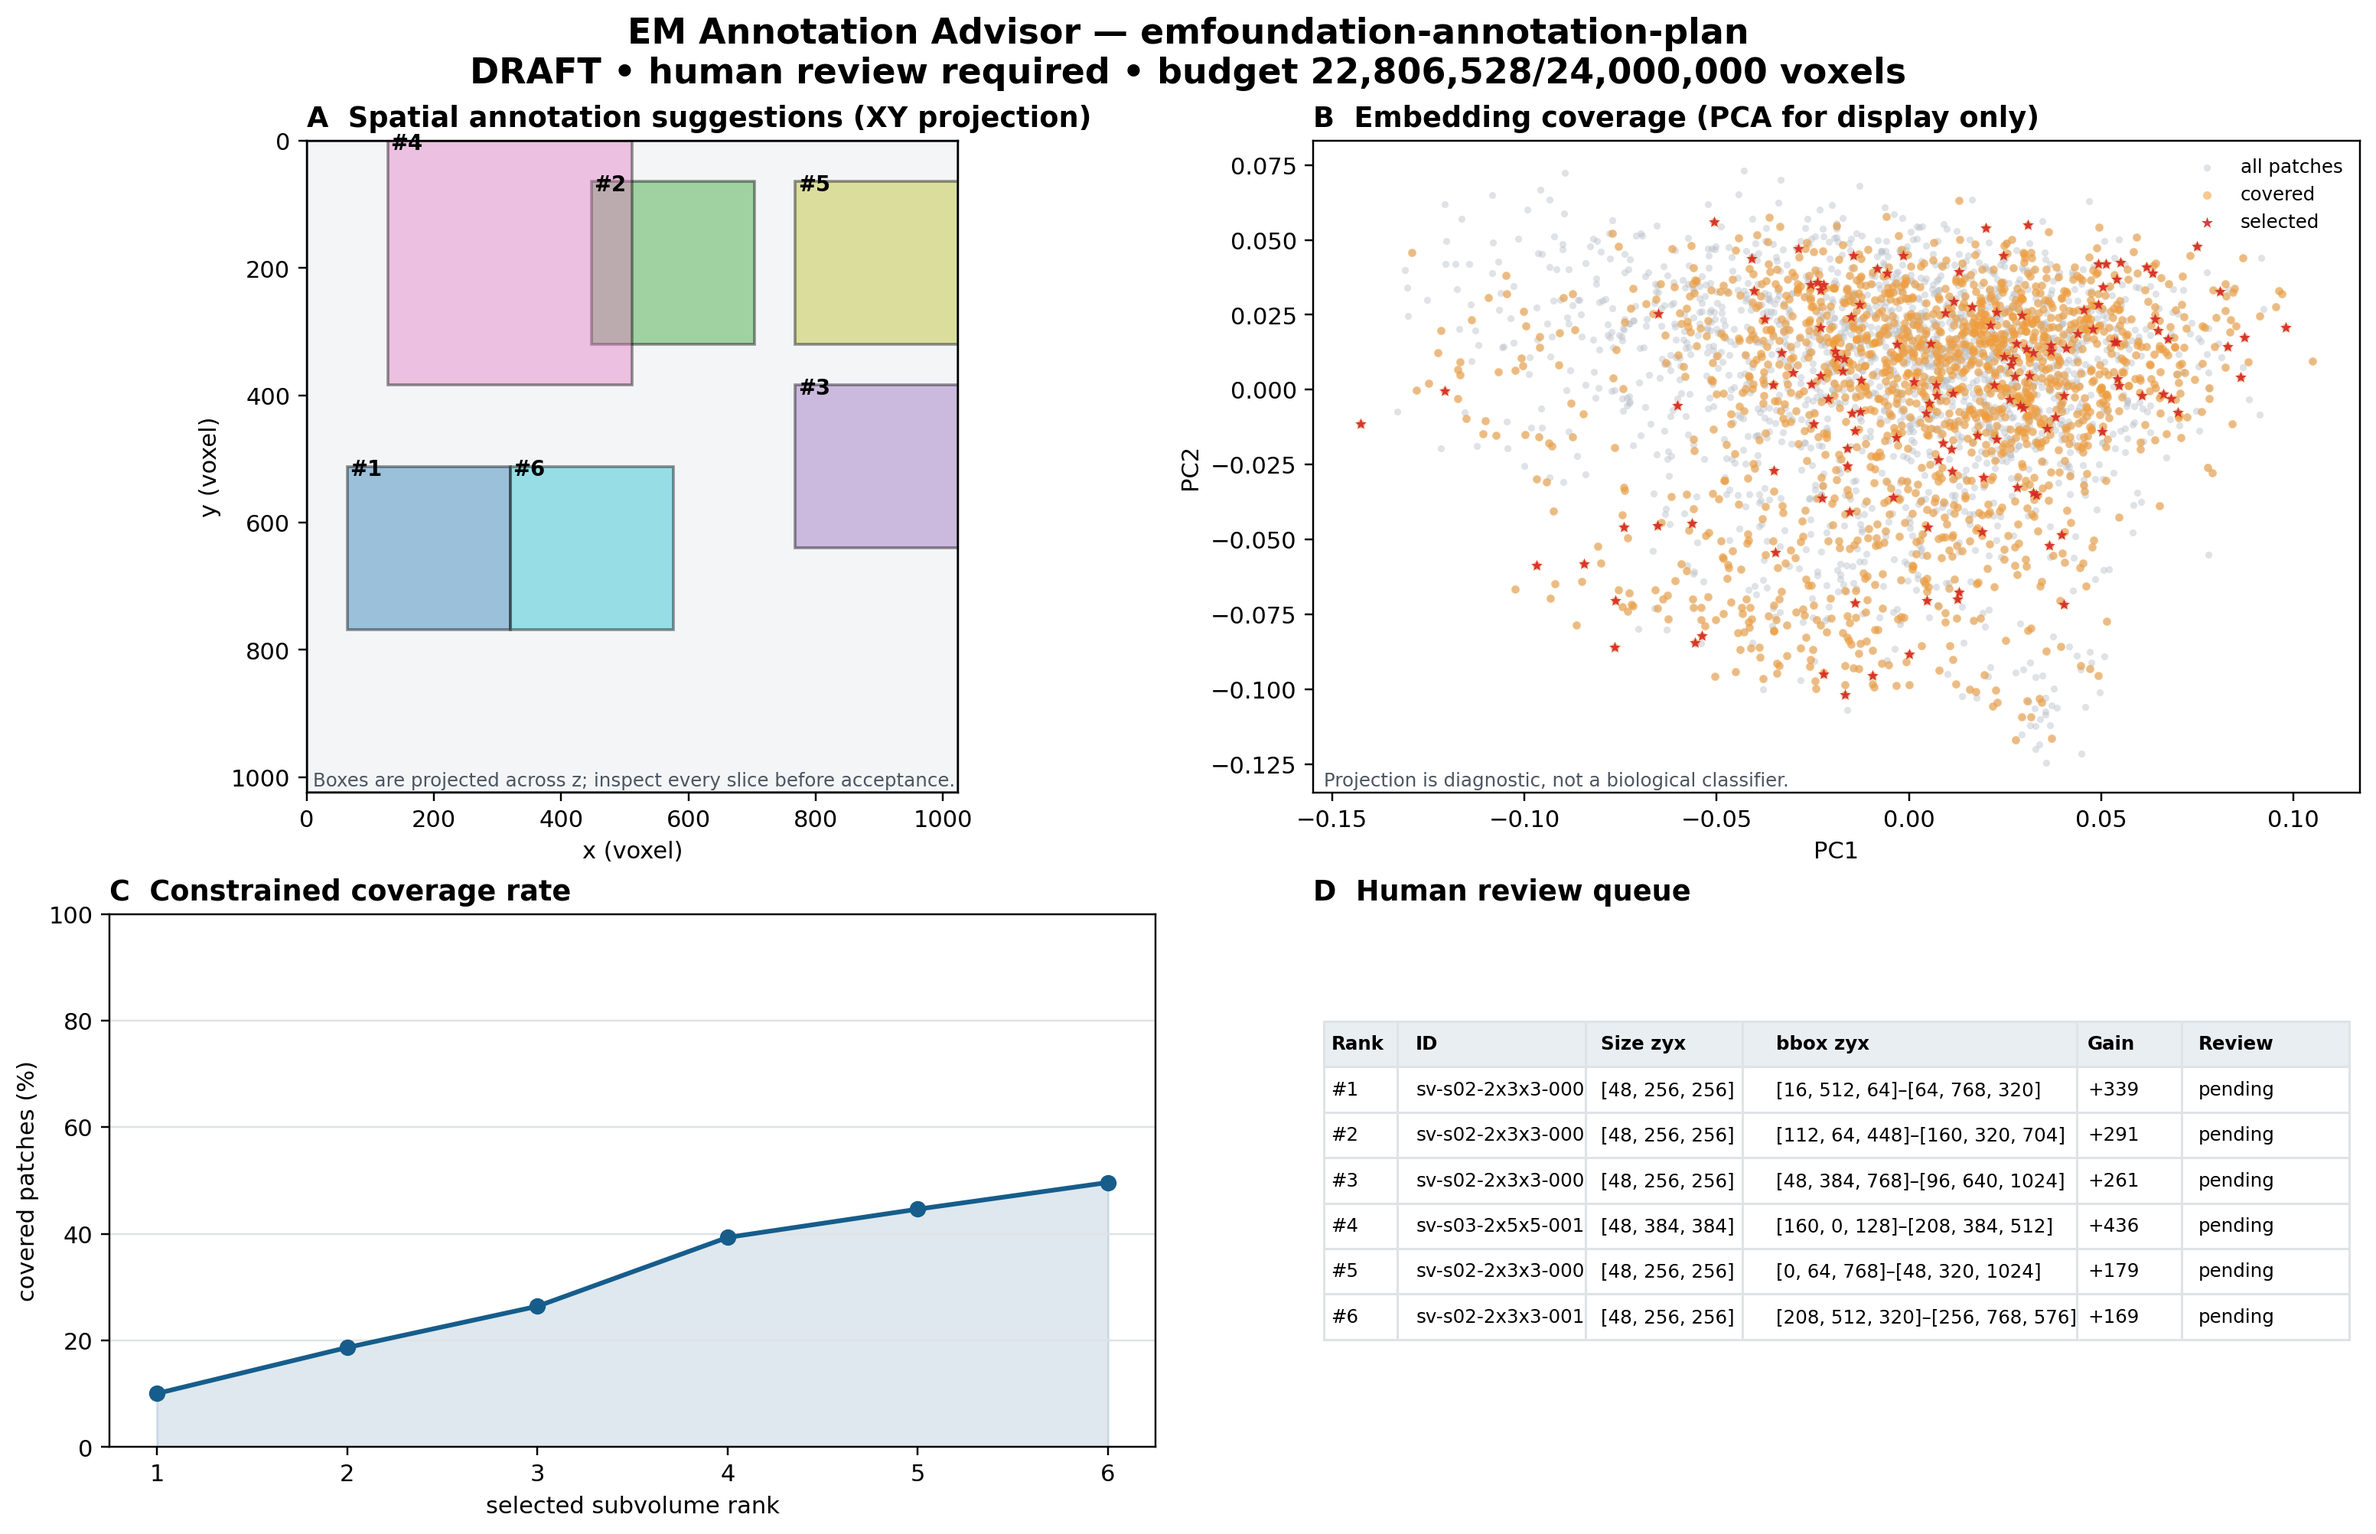
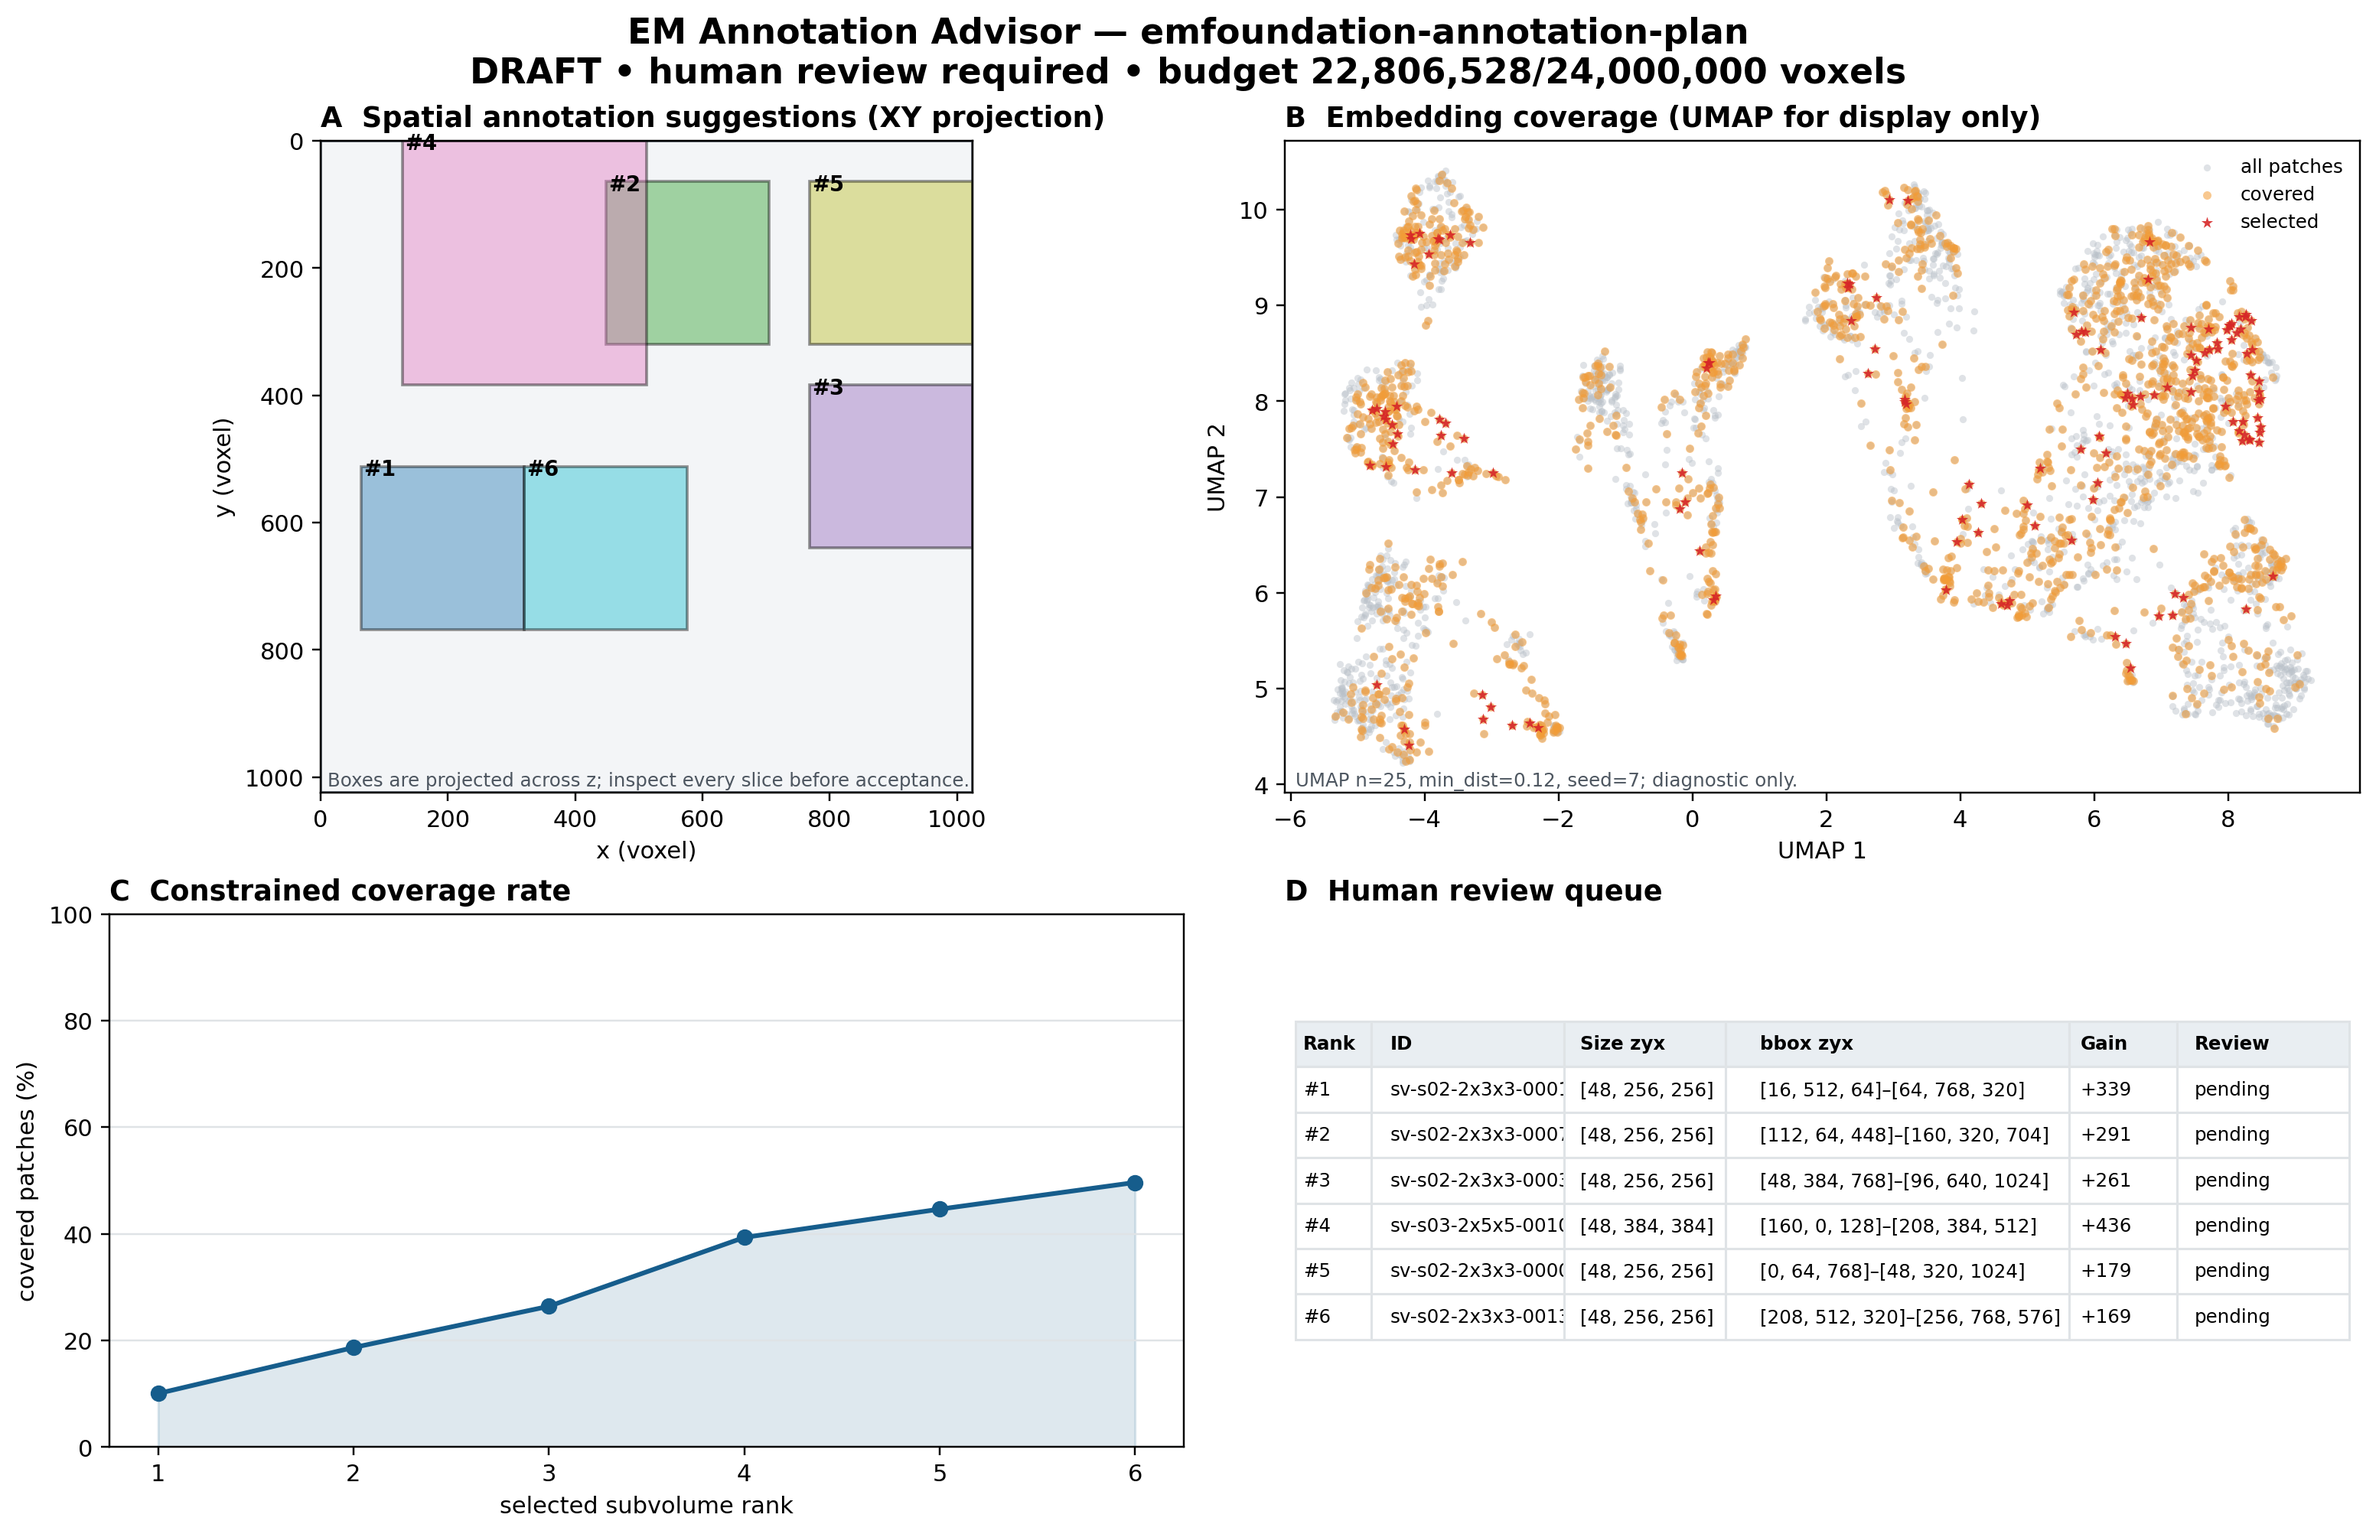
Use real EMFoundation embeddings and variable-size annotation selection

diff --git a/skills/suggest-em-annotations/scripts/visualize_annotation_advice.py b/skills/suggest-em-annotations/scripts/visualize_annotation_advice.py
@@ -1,5 +1,5 @@
 #!/usr/bin/env python3
-"""Create an SL-SSNS-style spatial and embedding-domain review figure."""
+"""Create a spatial and UMAP embedding-domain annotation review figure."""
 
 from __future__ import annotations
 
@@ -10,18 +10,45 @@ from pathlib import Path
 import numpy as np
 
 
-def pca2(x: np.ndarray) -> np.ndarray:
-    centered = x.astype(np.float64, copy=False) - np.mean(x, axis=0, keepdims=True)
-    if len(centered) < 2:
-        return np.zeros((len(centered), 2), dtype=np.float64)
-    _, _, vt = np.linalg.svd(centered, full_matrices=False)
-    projected = centered @ vt[: min(2, vt.shape[0])].T
-    if projected.shape[1] == 1:
-        projected = np.column_stack([projected[:, 0], np.zeros(len(projected))])
-    return projected
+def umap2(
+    x: np.ndarray,
+    n_neighbors: int = 25,
+    min_dist: float = 0.12,
+    metric: str = "euclidean",
+    seed: int = 7,
+) -> np.ndarray:
+    if len(x) < 3:
+        raise ValueError("UMAP visualization requires at least three embedding rows")
+    if n_neighbors < 2:
+        raise ValueError("UMAP n_neighbors must be at least 2")
+    if min_dist < 0:
+        raise ValueError("UMAP min_dist must be non-negative")
+    try:
+        import umap
+    except ImportError as exc:
+        raise RuntimeError("UMAP visualization requires the umap-learn package; no PCA fallback is used") from exc
+    effective_neighbors = min(max(2, n_neighbors), len(x) - 1)
+    reducer = umap.UMAP(
+        n_components=2,
+        n_neighbors=effective_neighbors,
+        min_dist=min_dist,
+        metric=metric,
+        random_state=seed,
+    )
+    return reducer.fit_transform(x.astype(np.float32, copy=False))
 
 
-def render(manifest_path: Path, selection_path: Path, embeddings_path: Path, out_path: Path) -> None:
+def render(
+    manifest_path: Path,
+    selection_path: Path,
+    embeddings_path: Path,
+    out_path: Path,
+    projection_out: Path | None = None,
+    n_neighbors: int = 25,
+    min_dist: float = 0.12,
+    metric: str = "euclidean",
+    seed: int = 7,
+) -> None:
     import matplotlib
     matplotlib.use("Agg")
     import matplotlib.pyplot as plt
@@ -33,7 +60,18 @@ def render(manifest_path: Path, selection_path: Path, embeddings_path: Path, out
     if embeddings.ndim != 2 or embeddings.shape[0] != manifest["patch_count"]:
         raise ValueError("embedding shape does not match manifest")
 
-    points = pca2(embeddings)
+    points = umap2(embeddings, n_neighbors=n_neighbors, min_dist=min_dist, metric=metric, seed=seed)
+    if projection_out is not None:
+        projection_out.parent.mkdir(parents=True, exist_ok=True)
+        np.savez_compressed(
+            projection_out,
+            umap=points,
+            n_neighbors=np.asarray(n_neighbors),
+            min_dist=np.asarray(min_dist),
+            metric=np.asarray(metric),
+            seed=np.asarray(seed),
+            embedding_rows=np.asarray(embeddings.shape[0]),
+        )
     covered = np.asarray(selection["covered_patch_ids"], dtype=int)
     selected = np.asarray(selection["selected_patch_ids"], dtype=int)
     curve = selection["coverage_curve"]
@@ -62,16 +100,16 @@ def render(manifest_path: Path, selection_path: Path, embeddings_path: Path, out
     ax_space.set_ylabel("y (voxel)")
     ax_space.text(0.01, 0.01, "Boxes are projected across z; inspect every slice before acceptance.", transform=ax_space.transAxes, fontsize=8, color="#4d5660")
 
-    ax_embed.set_title("B  Embedding coverage (PCA for display only)", loc="left", fontweight="bold")
+    ax_embed.set_title("B  Embedding coverage (UMAP for display only)", loc="left", fontweight="bold")
     ax_embed.scatter(points[:, 0], points[:, 1], s=9, c="#b8c0c8", alpha=0.45, label="all patches", linewidths=0)
     if covered.size:
         ax_embed.scatter(points[covered, 0], points[covered, 1], s=13, c="#f39c36", alpha=0.55, label="covered", linewidths=0)
     if selected.size:
         ax_embed.scatter(points[selected, 0], points[selected, 1], s=27, c="#d62728", marker="*", alpha=0.9, label="selected", linewidths=0)
-    ax_embed.set_xlabel("PC1")
-    ax_embed.set_ylabel("PC2")
+    ax_embed.set_xlabel("UMAP 1")
+    ax_embed.set_ylabel("UMAP 2")
     ax_embed.legend(frameon=False, fontsize=8)
-    ax_embed.text(0.01, 0.01, "Projection is diagnostic, not a biological classifier.", transform=ax_embed.transAxes, fontsize=8, color="#4d5660")
+    ax_embed.text(0.01, 0.01, f"UMAP n={n_neighbors}, min_dist={min_dist:g}, seed={seed}; diagnostic only.", transform=ax_embed.transAxes, fontsize=8, color="#4d5660")
 
     ax_curve.set_title("C  Constrained coverage rate", loc="left", fontweight="bold")
     ranks = [r["rank"] for r in curve]
@@ -129,8 +167,23 @@ def main() -> int:
     parser.add_argument("--selection", type=Path, required=True)
     parser.add_argument("--embeddings", type=Path, required=True)
     parser.add_argument("--out", type=Path, required=True)
+    parser.add_argument("--projection-out", type=Path, help="optional compressed NPZ containing UMAP coordinates and parameters")
+    parser.add_argument("--umap-neighbors", type=int, default=25)
+    parser.add_argument("--umap-min-dist", type=float, default=0.12)
+    parser.add_argument("--umap-metric", default="euclidean")
+    parser.add_argument("--umap-seed", type=int, default=7)
     args = parser.parse_args()
-    render(args.manifest, args.selection, args.embeddings, args.out)
+    render(
+        args.manifest,
+        args.selection,
+        args.embeddings,
+        args.out,
+        projection_out=args.projection_out,
+        n_neighbors=args.umap_neighbors,
+        min_dist=args.umap_min_dist,
+        metric=args.umap_metric,
+        seed=args.umap_seed,
+    )
     print(f"wrote {args.out}")
     return 0
 

diff --git a/skills/suggest-em-annotations/tests/test_visualization.py b/skills/suggest-em-annotations/tests/test_visualization.py
@@ -18,15 +18,16 @@ class VisualizationTests(unittest.TestCase):
     def test_render(self):
         try:
             import matplotlib  # noqa: F401
+            import umap  # noqa: F401
         except ImportError:
-            self.skipTest("matplotlib unavailable")
+            self.skipTest("matplotlib or umap-learn unavailable")
         manifest = {
-            "patch_count": 4,
+            "patch_count": 16,
             "source": {"shape_zyx": [2, 8, 8]},
         }
         selection = {
             "project_id": "synthetic",
-            "covered_patch_ids": [0, 1, 2],
+            "covered_patch_ids": list(range(12)),
             "selected_patch_ids": [0, 1],
             "coverage_curve": [{"rank": 1, "coverage_rate": 0.75}],
             "selected_subvolumes": [{
@@ -43,12 +44,16 @@ class VisualizationTests(unittest.TestCase):
             sp = td / "selection.json"
             ep = td / "embedding.npy"
             op = td / "figure.png"
+            pp = td / "projection.npz"
             mp.write_text(json.dumps(manifest), encoding="utf-8")
             sp.write_text(json.dumps(selection), encoding="utf-8")
-            np.save(ep, np.eye(4, 3, dtype=np.float32))
-            visualizer.render(mp, sp, ep, op)
+            np.save(ep, np.random.default_rng(7).normal(size=(16, 3)).astype(np.float32))
+            visualizer.render(mp, sp, ep, op, projection_out=pp, n_neighbors=5, seed=7)
             self.assertTrue(op.exists())
             self.assertGreater(op.stat().st_size, 1000)
+            with np.load(pp, allow_pickle=False) as projection:
+                self.assertEqual(projection["umap"].shape, (16, 2))
+                self.assertEqual(int(projection["seed"]), 7)
 
 
 if __name__ == "__main__":

diff --git a/skills/suggest-em-annotations/SKILL.md b/skills/suggest-em-annotations/SKILL.md
@@ -52,7 +52,7 @@ Then run:
 python scripts/em_annotation_advisor.py audit --config work/ac3ac4-0/project.json --out work/ac3ac4-0/audit.json
 python scripts/em_annotation_advisor.py plan --config work/ac3ac4-0/project.json --out work/ac3ac4-0/candidates.json
 python scripts/em_annotation_advisor.py select --config work/ac3ac4-0/project.json --manifest work/ac3ac4-0/candidates.json --embeddings work/ac3ac4-0/embeddings.npy --positions work/ac3ac4-0/positions_zyx.npy --out work/ac3ac4-0/draft_selection.json
-python scripts/visualize_annotation_advice.py --manifest work/ac3ac4-0/candidates.json --selection work/ac3ac4-0/draft_selection.json --embeddings work/ac3ac4-0/embeddings.npy --out work/ac3ac4-0/selection_overview.png
+python scripts/visualize_annotation_advice.py --manifest work/ac3ac4-0/candidates.json --selection work/ac3ac4-0/draft_selection.json --embeddings work/ac3ac4-0/embeddings.npy --umap-neighbors 25 --umap-min-dist 0.12 --umap-metric euclidean --umap-seed 7 --projection-out work/ac3ac4-0/selection_umap.npz --out work/ac3ac4-0/selection_overview.png
 python scripts/visualize_subvolume_gallery.py --raw /absolute/path/0.tif --selection work/ac3ac4-0/draft_selection.json --axes zyx --out work/ac3ac4-0/raw_subvolume_gallery.png
 python scripts/em_annotation_advisor.py finalize --draft work/ac3ac4-0/draft_selection.json --decisions work/ac3ac4-0/review_decisions.json --out work/ac3ac4-0/final_annotation_queue.json
 ```
@@ -85,7 +85,8 @@ This is a multi-scale, budgeted extension of CCR—not an assertion that variabl
 - Fail on axis ambiguity, missing voxel size, source/model permission errors, shape/order mismatch, non-finite embeddings, or checkpoint mismatch.
 - Keep validation/test/holdout regions outside both embedding selection and annotation output.
 - A generated queue remains `DRAFT_REQUIRES_HUMAN_REVIEW` until every proposal is accepted or rejected by a named reviewer.
-- Do not interpret PCA/UMAP clusters as biological classes without independent labels and expert audit.
+- Do not interpret UMAP clusters as biological classes without independent labels and expert audit.
+- Display embedding vectors with deterministic UMAP, record its neighbors, minimum distance, metric, and seed, and fail if `umap-learn` is unavailable. Do not silently substitute PCA.
 - Do not claim annotation efficiency until matched-budget random/equispaced baselines and held-out downstream segmentation evaluation are complete.
 
 ## Deliverables
@@ -96,6 +97,7 @@ This is a multi-scale, budgeted extension of CCR—not an assertion that variabl
 - `candidates.json`: deterministic multi-scale candidate geometry and per-box annotation cost.
 - `draft_selection.json`: ranked budgeted suggestions, coverage curve, size and cost of each box.
 - `selection_overview.png`: spatial boxes, embedding coverage, coverage curve, and review queue.
+- `selection_umap.npz`: displayed UMAP coordinates and reproducibility parameters.
 - `raw_subvolume_gallery.png`: center-slice raw EM previews with physical scale bars; full-z review is still required.
 - `final_annotation_queue.json`: expert-approved targets only.
 

diff --git a/examples/ac3ac4-annotation-advisor/README.md b/examples/ac3ac4-annotation-advisor/README.md
@@ -35,6 +35,8 @@ Candidate windows and source-voxel sizes were:
 
 The budgeted selector used `k=30`, Euclidean distance, `cost_exponent=0.75`, a 24,000,000-voxel budget, and a maximum of six non-overlapping boxes. It selected six boxes using 22,806,528 voxels and covered 49.63% of the patch set in the chosen embedding. Five boxes were `48 × 256 × 256`; one was `48 × 384 × 384`.
 
+The embedding panel uses deterministic UMAP—not PCA—with `n_neighbors=25`, `min_dist=0.12`, Euclidean metric, and `random_state=7`. The displayed coordinates and parameters are preserved in `selection-umap.npz`. UMAP is used only for visualization; coverage and selection still operate in the original 512-D embedding space.
+
 ![Selection overview](selection-overview.png)
 
 ![Raw EM review gallery](raw-subvolume-gallery.png)
@@ -48,6 +50,7 @@ The gallery shows only each box's center slice. Review the complete z extent bef
 - `audit.json`: geometry and scale audit;
 - `draft-selection.json`: full ranked proposal queue;
 - `selection-summary.json`: compact metrics and output hashes.
+- `selection-umap.npz`: displayed UMAP coordinates and deterministic projection parameters.
 
 Large source data, checkpoint files, embeddings, and the complete candidate manifest are intentionally not redistributed.
 
